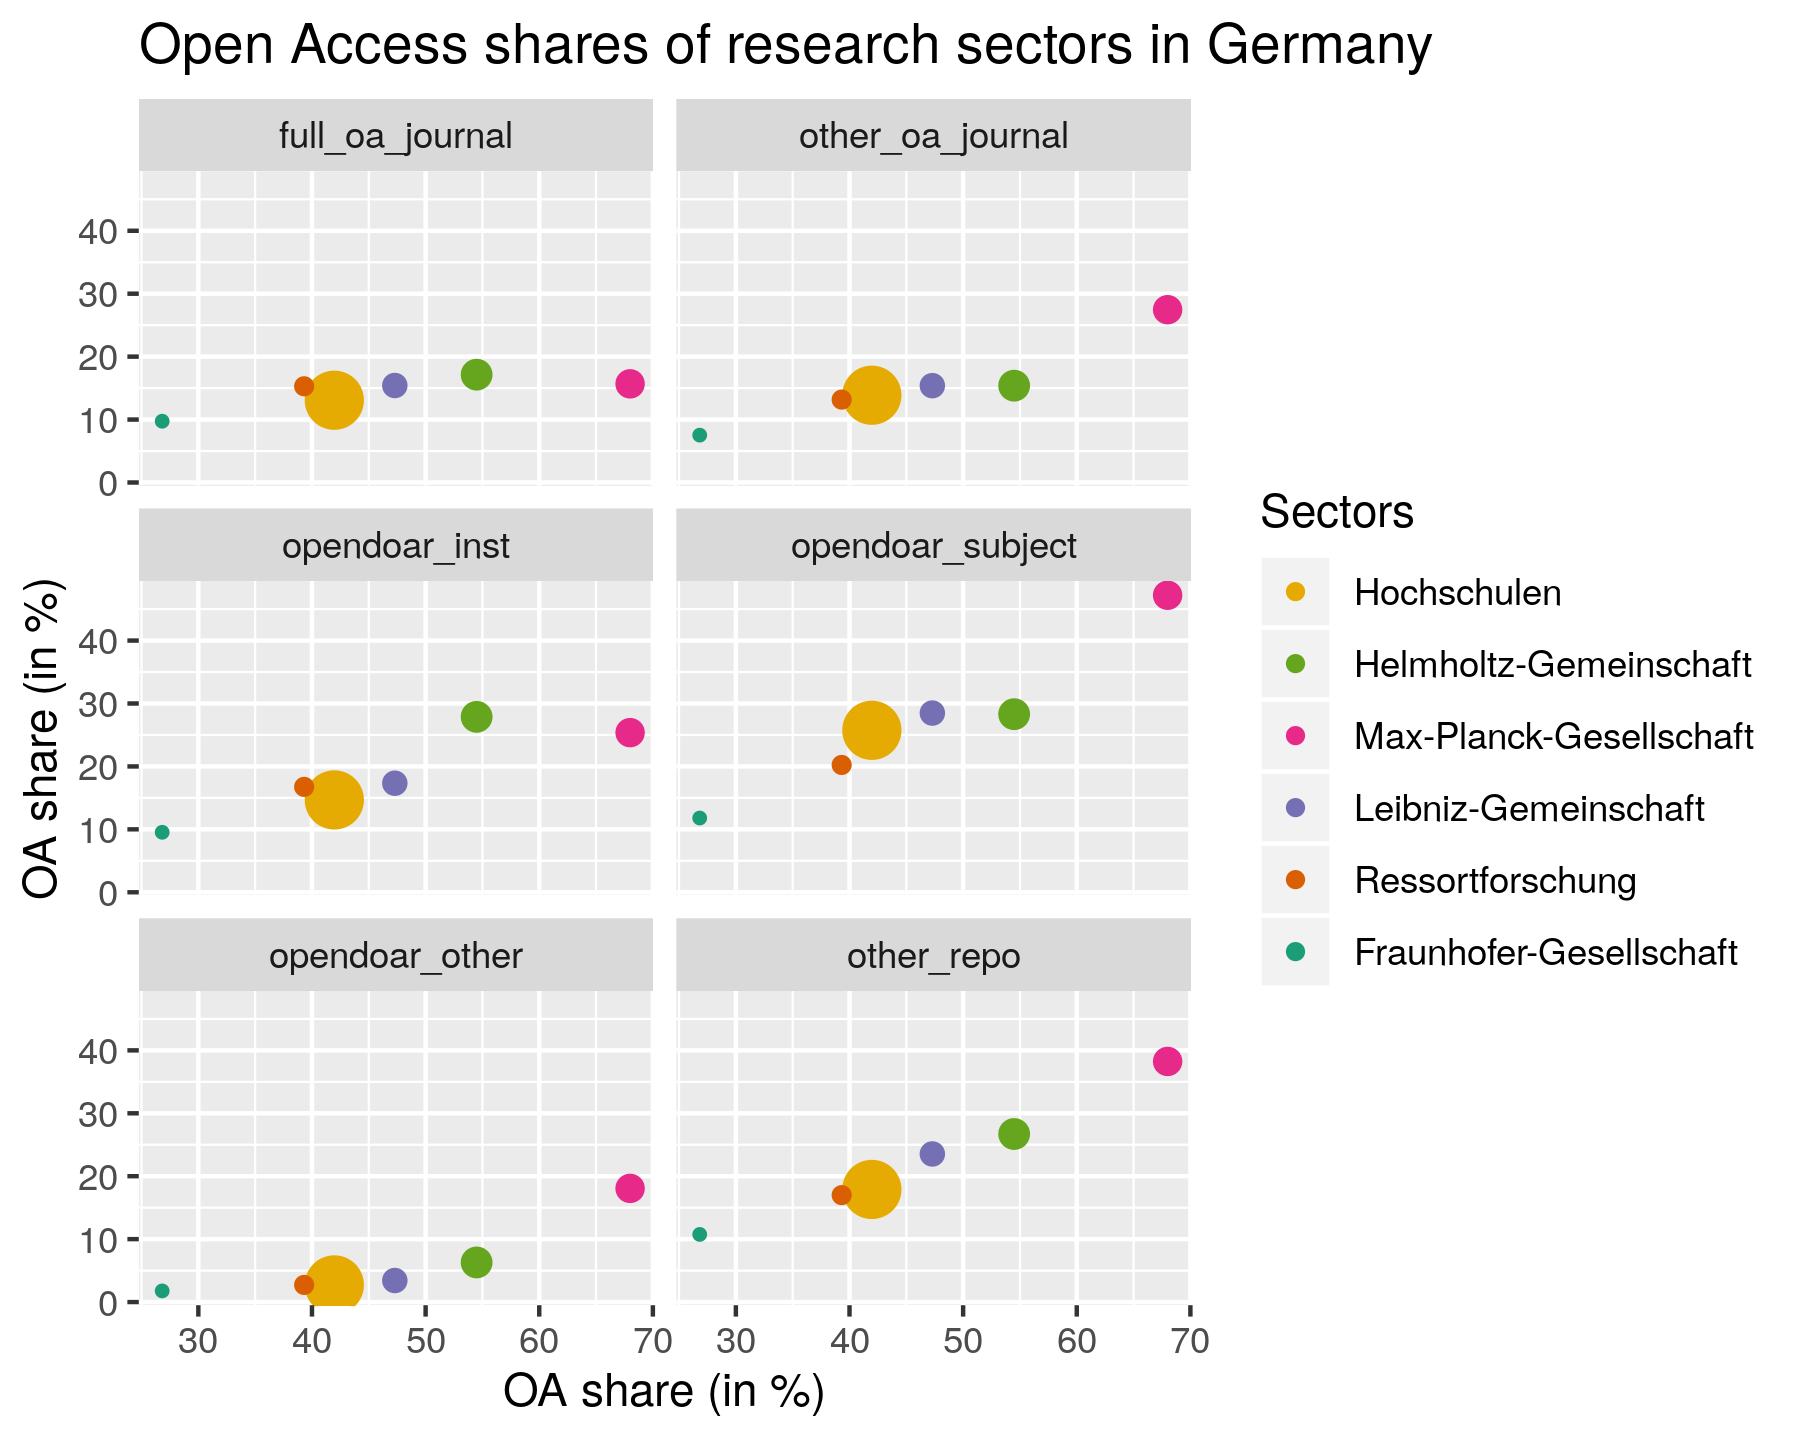
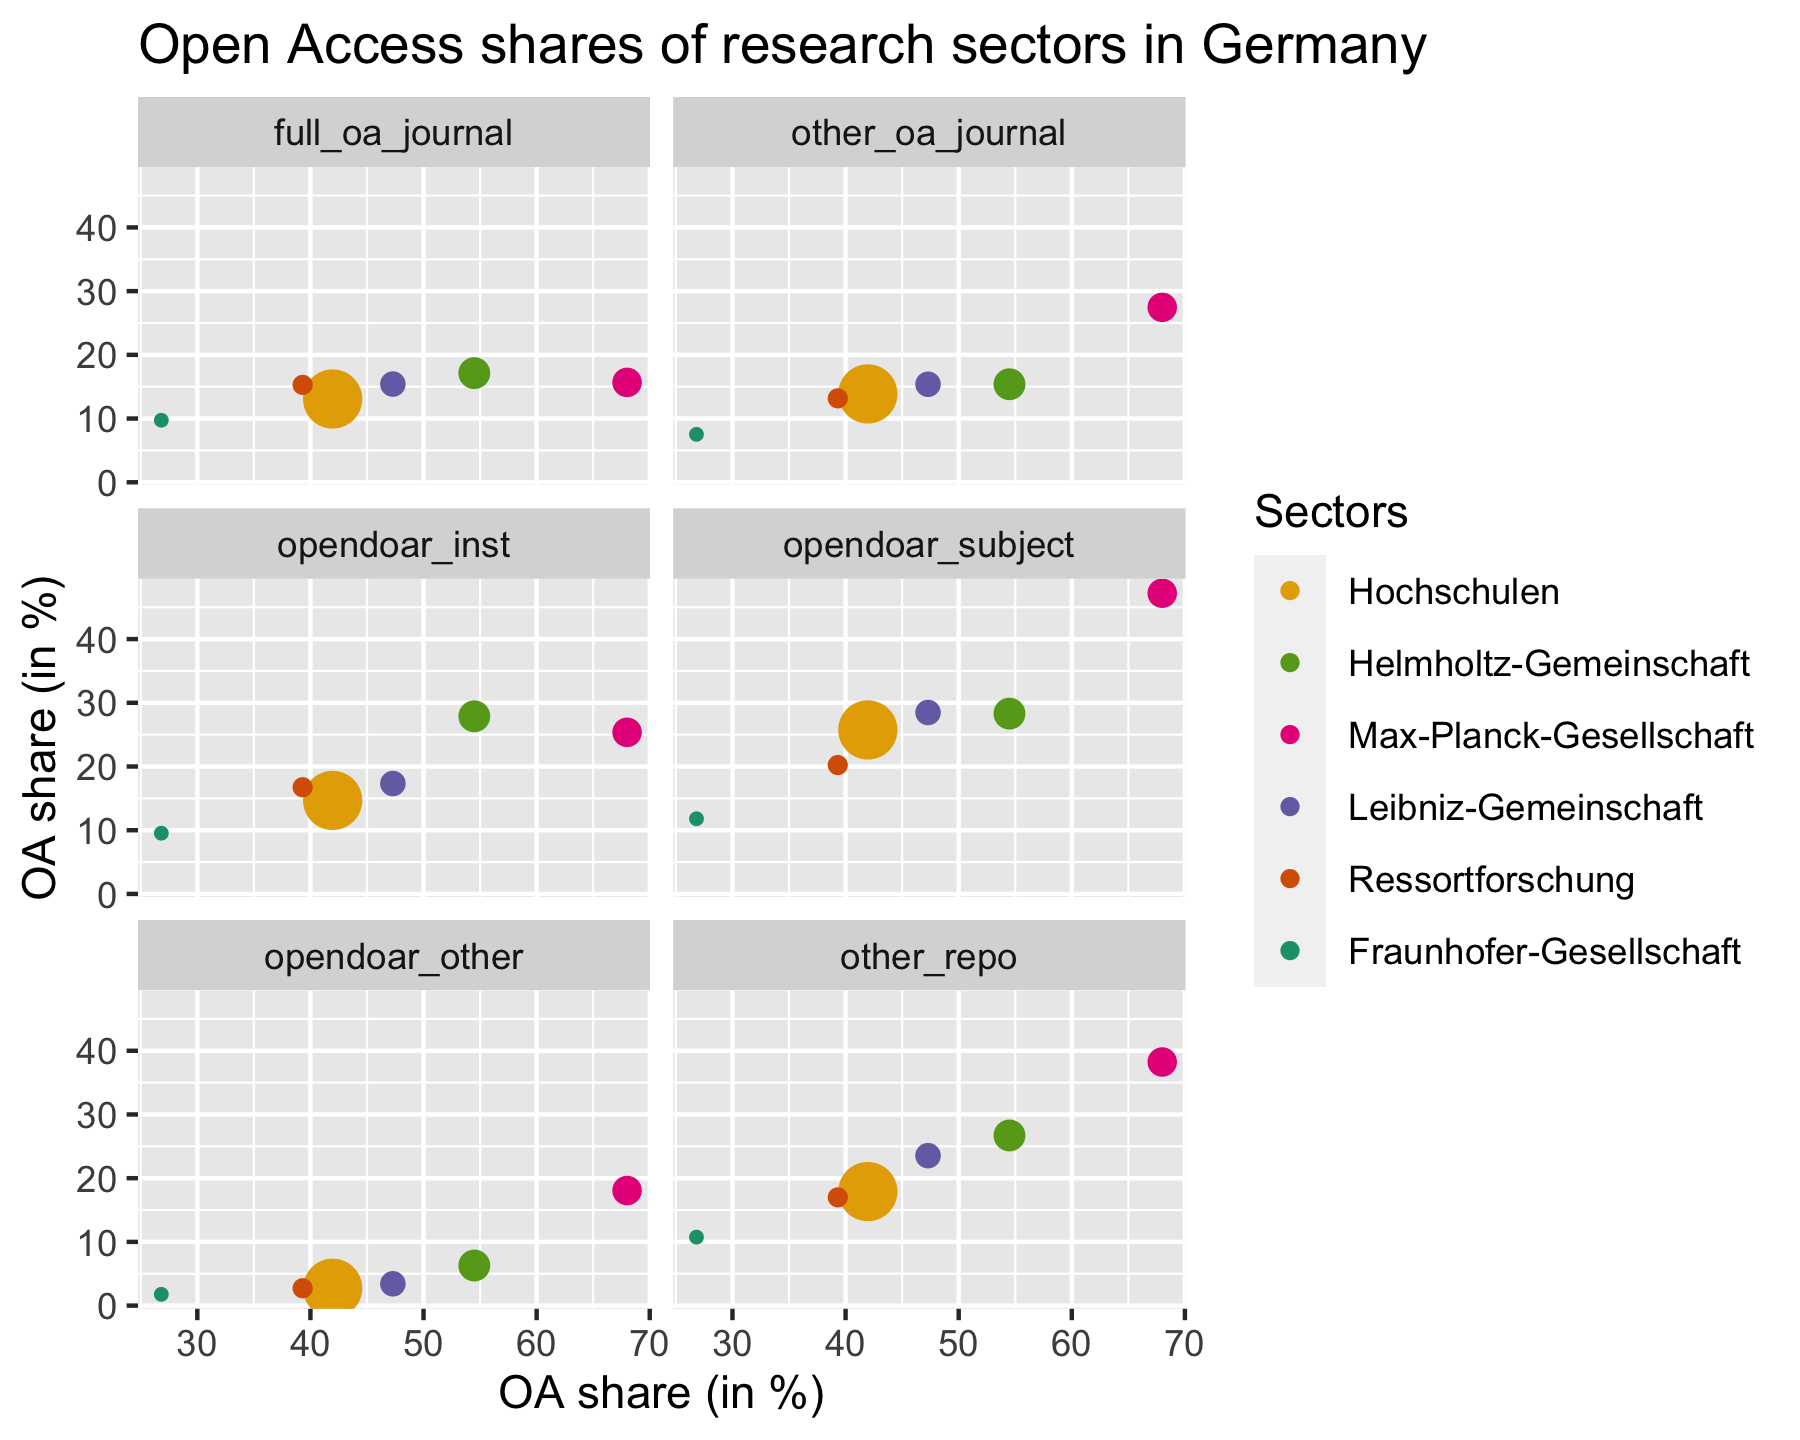
tmp save improve plot following wilke guidelines

diff --git a/analysis.md b/analysis.md
@@ -27,8 +27,7 @@ First, we look at how the overall OA share developed over time. The
 following figure displays the number of publications associated with one
 of the German research institutions we considered and highlights they
 part that is freely accessible online according to Unpaywall over the
-considered time period from 2010 until
-2018.
+considered time period from 2010 until 2018.
 
 <img src="analysis_files/figure-gfm/unnamed-chunk-4-1.png" title="Open access to journal articles from German research institutions according to Unpaywall. Blue area represents journal articles with at least one freely available full-text, grey area represents toll-access articles." alt="Open access to journal articles from German research institutions according to Unpaywall. Blue area represents journal articles with at least one freely available full-text, grey area represents toll-access articles." width="90%" style="display: block; margin: auto;" />
 
@@ -48,8 +47,7 @@ publishing in Germany and how they contribute to the OA
 development/overall OA shares, we distplay the development over time of
 the number of OA articles for each sector in the following figure. Note
 that scales for the `y-axes` are not the same, since the total
-publication output varies significantly among
-sectors.
+publication output varies significantly among sectors.
 
 <img src="analysis_files/figure-gfm/unnamed-chunk-6-1.png" title="Open access to journal articles per sector according to Unpaywall. Blue area represents journal articles with at least one freely available full-text, grey area represents toll-access articles. Sectors are ordered by publication output with the highest output top left and lowest at the bottom. Note that scales for the `y-axes` are not the same, since the total publication output varies significantly among sectors." alt="Open access to journal articles per sector according to Unpaywall. Blue area represents journal articles with at least one freely available full-text, grey area represents toll-access articles. Sectors are ordered by publication output with the highest output top left and lowest at the bottom. Note that scales for the `y-axes` are not the same, since the total publication output varies significantly among sectors." width="90%" style="display: block; margin: auto;" />
 
@@ -65,8 +63,7 @@ individual OA shares.
 
 The following figure displays scatterplots where the OA share of an
 institution over the whole time period is shown with respect to its
-publication
-output.
+publication output.
 
 <img src="analysis_files/figure-gfm/unnamed-chunk-8-1.png" title="Open Access shares of research institutions in Germany with respect to their total publication output grouped by the sector they belong to. Only institutions with at least 100 publications are shown. Blue points correspond to single insitutions, gray lines are obained by linear regression within the sector, gray areas are pointwise symmetric 95% t-distribution confidence bands. Scales of the x-axes vary across subplots in order to adapt to the different publication volumes." alt="Open Access shares of research institutions in Germany with respect to their total publication output grouped by the sector they belong to. Only institutions with at least 100 publications are shown. Blue points correspond to single insitutions, gray lines are obained by linear regression within the sector, gray areas are pointwise symmetric 95% t-distribution confidence bands. Scales of the x-axes vary across subplots in order to adapt to the different publication volumes." width="90%" style="display: block; margin: auto;" />
 The most striking observations from this figure are the high OA shares
@@ -80,8 +77,7 @@ publication volume implying higher OA shares is most distinctive for the
 university sector (narrowest confidence bands).
 
 The following box plot quantifies the observations regarding the
-variability of OA shares within sectors made
-before.
+variability of OA shares within sectors made before.
 
 <img src="analysis_files/figure-gfm/unnamed-chunk-9-1.png" title="OA shares of German research institutions per sector. The color of the boxes corresponds to the total publication output of the sector, their widths to the number of institutions per sector. Gray points display the OA shares for individual institutions." alt="OA shares of German research institutions per sector. The color of the boxes corresponds to the total publication output of the sector, their widths to the number of institutions per sector. Gray points display the OA shares for individual institutions." width="90%" style="display: block; margin: auto;" />
 
@@ -107,8 +103,7 @@ First, we visualise the number of articles per category on the national
 level, that is, not differentiated by sector. Note that, as mentioned
 before, the OA categories are not exclusive, that is, an article might
 be counted for several categories and numbers not necessarily sum up to
-the total number of articles
-published.
+the total number of articles published.
 
 <img src="analysis_files/figure-gfm/unnamed-chunk-11-1.png" title="Development of the total number of journal articles over time per OA category (as per schema in Table 1). Categories are non-exclusive, that is some articles may be counted for a journal and a repository category. Colors correspond to the OA category, linetypes to whether a publication is not OA (dotted), or is available through a repository (dashed) or a publisher (solid)." alt="Development of the total number of journal articles over time per OA category (as per schema in Table 1). Categories are non-exclusive, that is some articles may be counted for a journal and a repository category. Colors correspond to the OA category, linetypes to whether a publication is not OA (dotted), or is available through a repository (dashed) or a publisher (solid)." width="90%" style="display: block; margin: auto;" />
 Observations:
@@ -122,8 +117,7 @@ Observations:
 
 relative numbers?
 
-Or as
-barplot?
+Or as barplot?
 
 <img src="analysis_files/figure-gfm/unnamed-chunk-12-1.png" title="Development of the total number of journal articles over time per OA category (as per schema in Table 1). Categories are non-exclusive, that is some articles may be counted for a journal and a repository category." alt="Development of the total number of journal articles over time per OA category (as per schema in Table 1). Categories are non-exclusive, that is some articles may be counted for a journal and a repository category." width="90%" style="display: block; margin: auto;" />
 
@@ -142,8 +136,7 @@ in facet titles); similar to above bar/line plots faceted by sector
 (with/without yearly development)
 
 Lookin at the institutional level, we, again, only consider institutions
-with at least 100 publications in the observed time period of 9
-years.
+with at least 100 publications in the observed time period of 9 years.
 
 <img src="analysis_files/figure-gfm/unnamed-chunk-16-1.png" title="OA shares per OA category for individual research institutions. The relationship between OA shares of individual OA categories (as per schema in Table 1) and overall OA share is shown." alt="OA shares per OA category for individual research institutions. The relationship between OA shares of individual OA categories (as per schema in Table 1) and overall OA share is shown." width="90%" style="display: block; margin: auto;" />
 
@@ -160,23 +153,5 @@ Unpaywall, we load the original, non-categorized Unpaywall data:
 We now determine the evidence combinations for all matched DOIs and then
 calculate the frequency of each combination found.
 
-    #> # A tibble: 538 x 2
-    #>    evidence                                                               n
-    #>    <chr>                                                              <int>
-    #>  1 oa repository (via OAI-PMH doi match)                              53074
-    #>  2 oa journal (via doaj)&oa repository (semantic scholar lookup)&oa … 23061
-    #>  3 oa repository (via OAI-PMH title and first author match)           22519
-    #>  4 oa journal (via doaj)&oa repository (via OAI-PMH doi match)&oa re… 20293
-    #>  5 open (via free pdf)                                                19599
-    #>  6 oa repository (semantic scholar lookup)&oa repository (via OAI-PM… 13971
-    #>  7 oa repository (via OAI-PMH doi match)&oa repository (via pmcid lo… 12709
-    #>  8 oa repository (semantic scholar lookup)                            12377
-    #>  9 oa repository (via OAI-PMH doi match)&oa repository (via OAI-PMH … 11312
-    #> 10 oa repository (via OAI-PMH doi match)&oa repository (via pmcid lo… 10513
-    #> # … with 528 more rows
-
 We now prepare the data for plotting with the UpSetR package and
-visualise the overlapping evidence
-categories.
-
-<img src="analysis_files/figure-gfm/unnamed-chunk-20-1.png" width="90%" style="display: block; margin: auto;" />
+visualise the overlapping evidence categories.
